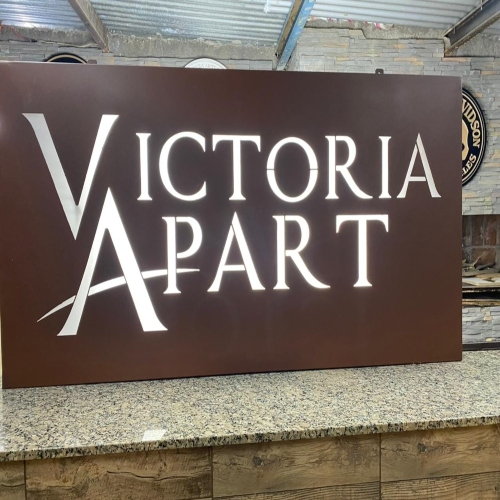
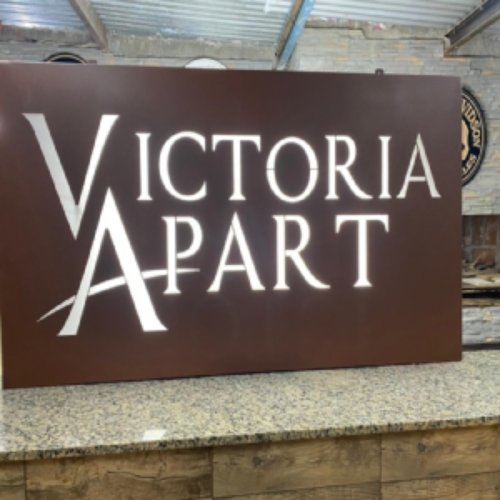
cambio en imagenes del sitio

diff --git a/estilos/css/estilos.css b/estilos/css/estilos.css
@@ -190,9 +190,10 @@ body {
   width: 27rem; }
   .infosection__img {
     display: inline-block;
-    height: 400px;
-    width: 400px;
-    overflow: hidden; }
+    height: 350px;
+    width: 350px;
+    overflow: hidden;
+    object-fit: cover; }
 
 .footer {
   background-color: #e1e7ed;
@@ -271,7 +272,7 @@ body {
   .proyecto__img {
     height: 300px;
     width: 300px;
-    padding: 1rem; }
+    margin: 1rem; }
   .proyecto__pie {
     margin: 1rem;
     padding: 1rem;
@@ -297,7 +298,8 @@ body {
     overflow: hidden;
     max-width: min-content; }
   .nosotros__img {
-    height: 350px; }
+    height: 350px;
+    object-fit: cover; }
 
 /*PROPUESTA*/
 .propuesta {
@@ -326,9 +328,10 @@ body {
     margin: 1rem;
     border-radius: 5px; }
   .propuesta__img {
-    height: 400px;
-    width: 400px;
-    max-width: 100%; }
+    height: 350px;
+    width: 350px;
+    max-width: 100%;
+    object-fit: cover; }
   .propuesta__pie {
     text-align: center;
     width: 500px;

diff --git a/pages/propuesta_informativa.html b/pages/propuesta_informativa.html
@@ -69,7 +69,10 @@
         <div class="propuesta__pie"  data-aos="zoom-out-up">
             <h1>Te invitamos a conocer nuestras redes para conocer mas sobre nuestros trabajos!</h1>
            <div>
-            <a target="_blank" href="https://www.facebook.com/rusticos.industriales.9"><img src="../images/logo face.png" alt="icono imagen facebook"></a>
+            <a target="_blank" href="https://www.facebook.com/rusticos.industriales.9">
+           </div>
+           <div>
+            <img src="../images/logo face.png" alt="icono imagen facebook"></a>
            </div>
            <div>
             <a target="_blank" href="https://www.instagram.com/rusticosindustriales/"><img src="../images/logo instagram.png" alt="icono imagen instagram"></a>

diff --git a/sass/propuesta/_propuesta.scss b/sass/propuesta/_propuesta.scss
@@ -27,9 +27,10 @@
         border-radius: 5px;
     }
     &__img {
-        height: 400px;
-        width: 400px;
-        max-width: 100%; 
+        height: 350px;
+        width: 350px;
+        max-width: 100%;
+        object-fit: cover; 
     }
     &__pie{
         text-align: center;

diff --git a/sass/index/_info.scss b/sass/index/_info.scss
@@ -12,9 +12,11 @@
     width: 27rem; 
     &__img{
         display: inline-block;
-        height: 400px;
-        width: 400px;
+        height: 350px;
+        width: 350px;
         overflow: hidden;
+        object-fit: cover;
+        
     }
 
 

diff --git a/sass/proyecto/_proyecto.scss b/sass/proyecto/_proyecto.scss
@@ -12,7 +12,8 @@
    &__img{
        height: 300px;
        width: 300px;
-       padding: 1rem;
+       margin: 1rem;
+       
    }
     &__pie {
         margin: 1rem;

diff --git a/sass/nosotros/_nosotros.scss b/sass/nosotros/_nosotros.scss
@@ -14,5 +14,6 @@
     }
     &__img {
         height: 350px;
+        object-fit: cover;
     }
 }
